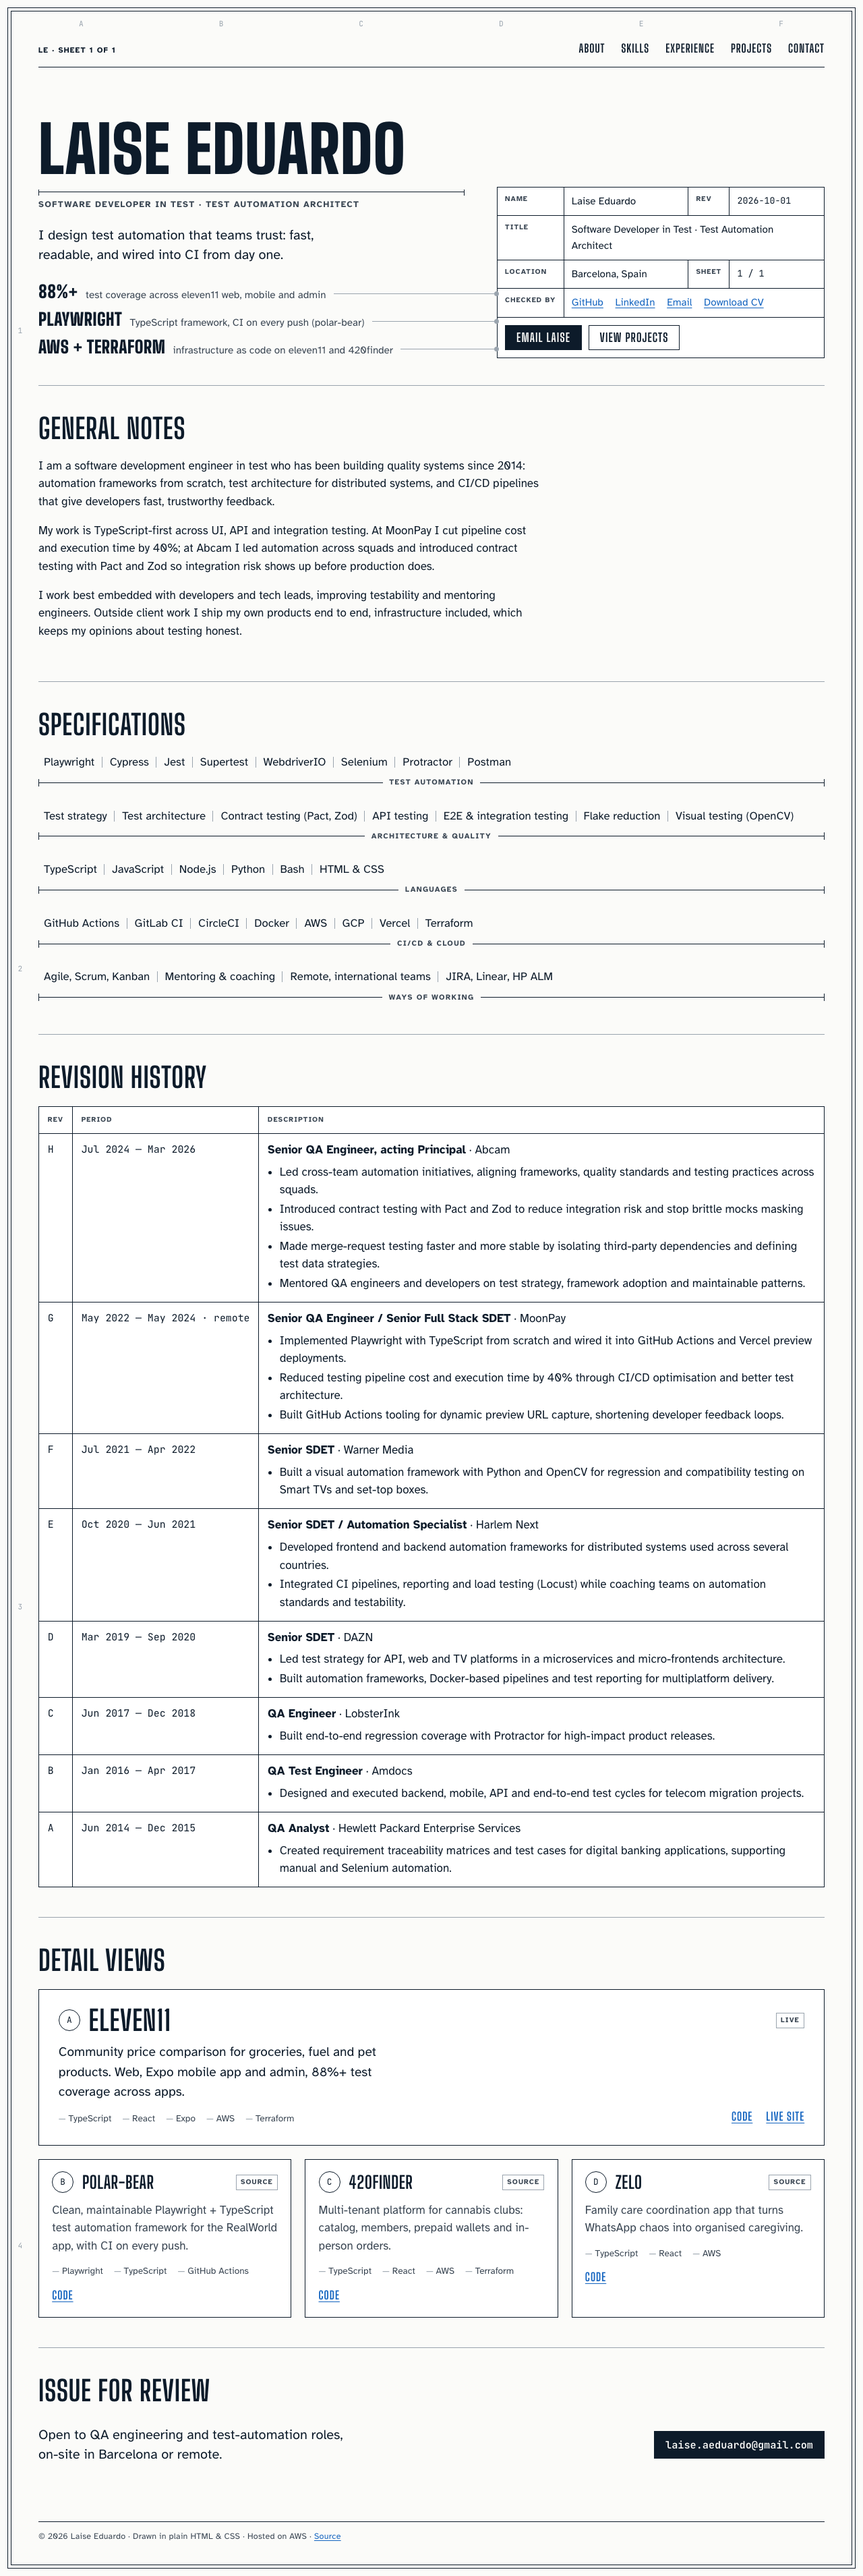
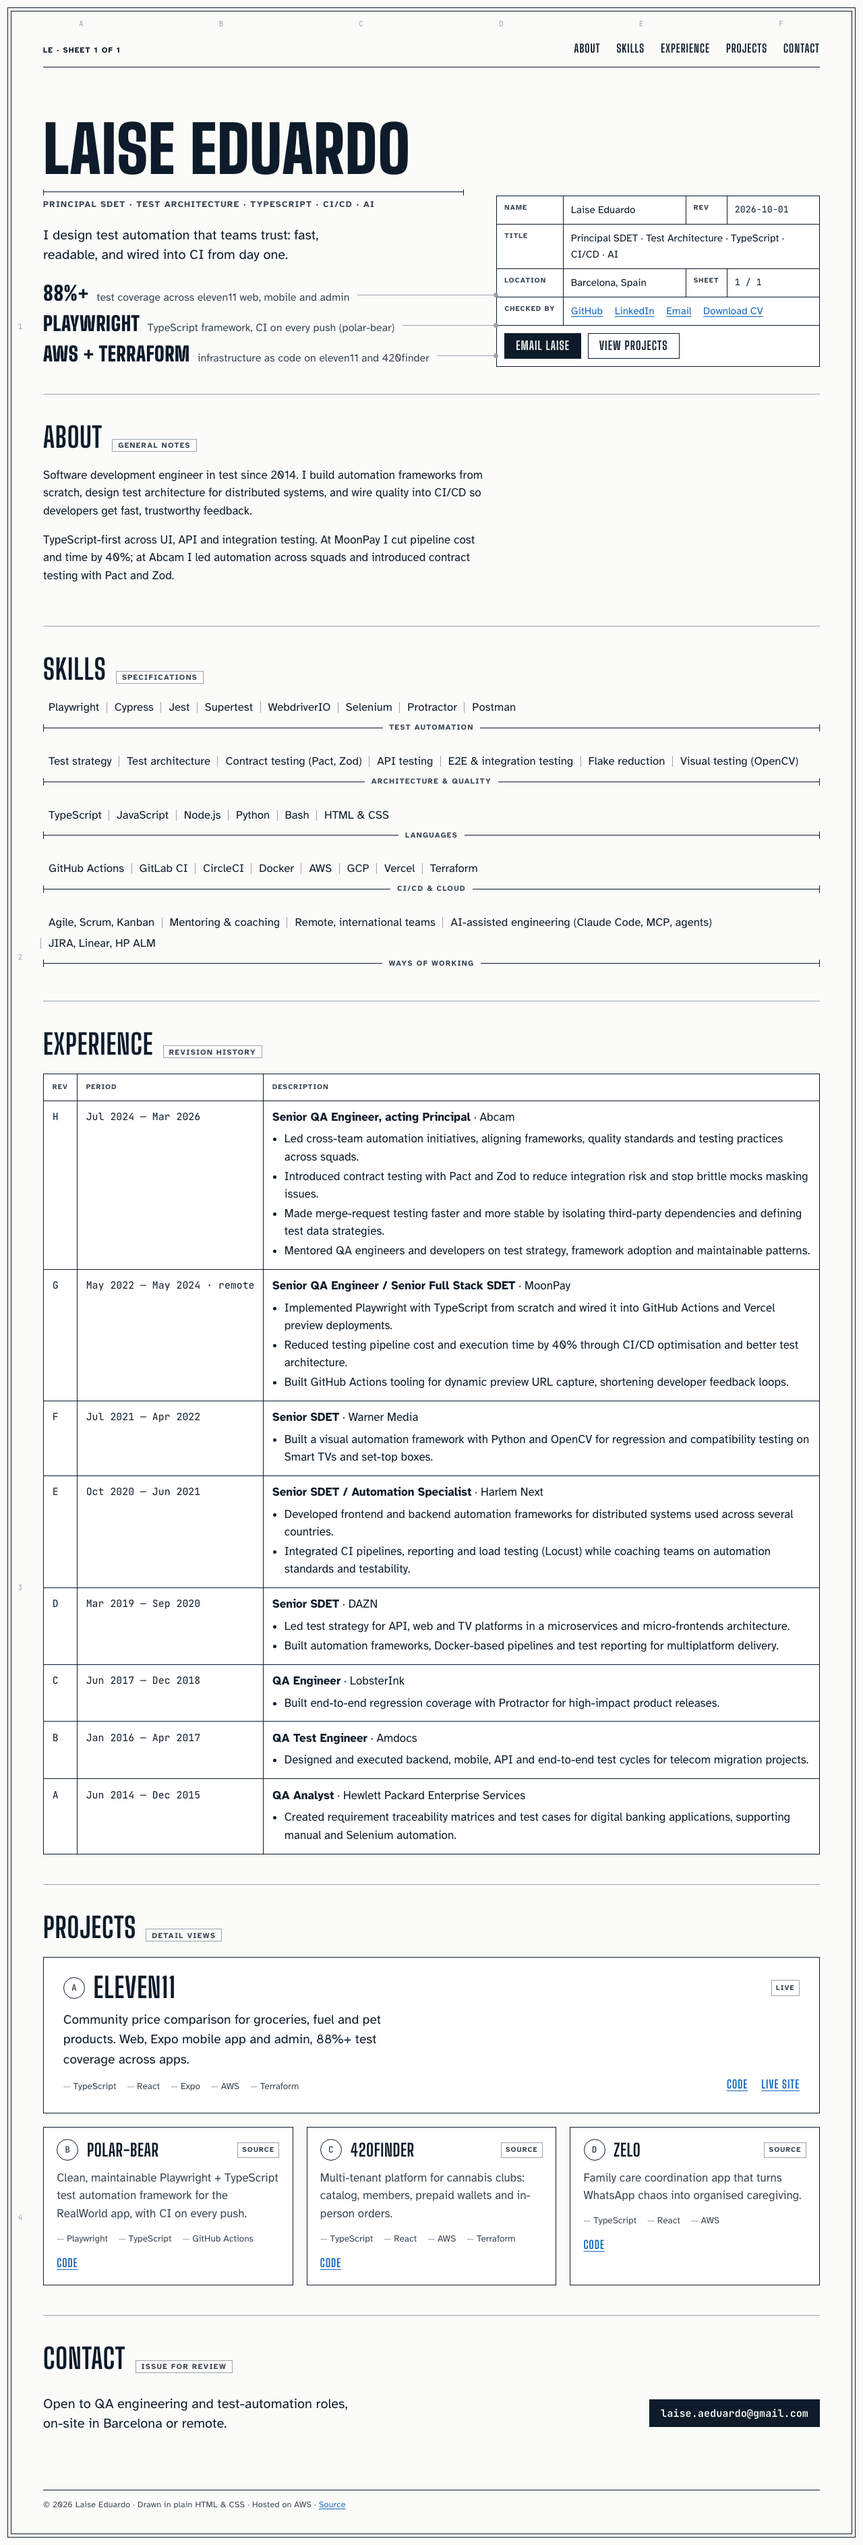
design: cap drawing width on wide screens, plain section headings with drawing notes, shorter about

diff --git a/site/main.js b/site/main.js
@@ -50,13 +50,13 @@ const hero = () => html`
 
 const about = () => html`
 <section id="about" aria-labelledby="h-about">
-  <h2 id="h-about">General notes</h2>
+  <h2 id="h-about">About <span class="note">General notes</span></h2>
   <div class="prose">${list(content.about, p => html`<p>${esc(p)}</p>`)}</div>
 </section>`;
 
 const skills = () => html`
 <section id="skills" aria-labelledby="h-skills">
-  <h2 id="h-skills">Specifications</h2>
+  <h2 id="h-skills">Skills <span class="note">Specifications</span></h2>
   <dl class="dims">
     ${list(content.skills, g => html`
     <div class="dim-row">
@@ -68,7 +68,7 @@ const skills = () => html`
 
 const experience = () => html`
 <section id="experience" aria-labelledby="h-exp">
-  <h2 id="h-exp">Revision history</h2>
+  <h2 id="h-exp">Experience <span class="note">Revision history</span></h2>
   <table class="rev">
     <thead><tr><th scope="col">Rev</th><th scope="col">Period</th><th scope="col">Description</th></tr></thead>
     <tbody>
@@ -87,7 +87,7 @@ const experience = () => html`
 
 const projects = () => html`
 <section id="projects" aria-labelledby="h-projects">
-  <h2 id="h-projects">Detail views</h2>
+  <h2 id="h-projects">Projects <span class="note">Detail views</span></h2>
   <div class="details">
     ${list(content.projects, (p, i) => html`
     <article class="detail${i === 0 ? ' headline' : ''}" aria-labelledby="p-${i}">
@@ -108,7 +108,7 @@ const projects = () => html`
 
 const contact = () => html`
 <section id="contact" aria-labelledby="h-contact">
-  <h2 id="h-contact">Issue for review</h2>
+  <h2 id="h-contact">Contact <span class="note">Issue for review</span></h2>
   <div class="contact-row">
     <p class="pitch">Open to QA engineering and test-automation roles, on-site in Barcelona or remote.</p>
     <p><a class="btn primary" href="mailto:${esc(content.email)}">${esc(content.email)}</a></p>

diff --git a/site/styles.css b/site/styles.css
@@ -89,6 +89,8 @@ h1, h2, h3 {
   padding: 1.75rem var(--gutter) var(--gutter);
   min-height: calc(100vh - 2 * var(--gutter));
 }
+/* the frame fills the window; the drawing itself is capped so leaders and measures stay short */
+.sheet > .top, .sheet > main, .sheet > footer { max-width: 72rem; margin-inline: auto; width: 100%; }
 
 .zones {
   position: absolute;
@@ -170,8 +172,8 @@ h1, h2, h3 {
   display: flex; flex-wrap: wrap; align-items: baseline; gap: 0.35rem 0.7rem;
   color: var(--ink); text-decoration: none;
 }
-.callouts strong { font-family: var(--display); font-size: 1.6rem; font-weight: 900; letter-spacing: 0.02em; text-transform: uppercase; line-height: 1; }
-.callouts span { color: var(--ink-2); font-size: 0.95rem; }
+.callouts strong { font-family: var(--display); font-size: 1.85rem; font-weight: 900; letter-spacing: 0.02em; text-transform: uppercase; line-height: 1; }
+.callouts span { color: var(--ink-2); font-size: 1rem; }
 .callouts a:hover span, .callouts a:focus-visible span { color: var(--ink); }
 
 /* leader: a rule that runs from the claim to the title block, dot at the target end */
@@ -231,9 +233,10 @@ h1, h2, h3 {
 main > section { padding: 2.75rem 0; border-bottom: 1px solid var(--rule); }
 main > section:last-child { border-bottom: 0; }
 
-h2 { font-size: clamp(1.9rem, 4vw, 2.6rem); font-weight: 700; margin-bottom: 1.4rem; }
+h2 { font-size: clamp(1.9rem, 4vw, 2.6rem); font-weight: 700; margin-bottom: 1.4rem; display: flex; align-items: baseline; gap: 0.9rem; flex-wrap: wrap; }
+h2 .note { font-family: var(--body); font-size: 0.7rem; font-weight: 700; letter-spacing: 0.12em; color: var(--ink-2); border: 1px solid var(--rule); padding: 0.2rem 0.5rem; }
 
-.prose { max-width: 68ch; }
+.prose { max-width: 60ch; }
 .prose p { margin: 0 0 1em; }
 
 /* specifications: each group is a dimension line — items are the dimensioned span,

diff --git a/site/content.js b/site/content.js
@@ -16,9 +16,8 @@ const content = {
     { value: 'AWS + Terraform', label: 'infrastructure as code on eleven11 and 420finder', href: 'https://github.com/LaiseEduardo/eleven11/tree/main/terraform' },
   ],
   about: [
-    'I am a software development engineer in test who has been building quality systems since 2014: automation frameworks from scratch, test architecture for distributed systems, and CI/CD pipelines that give developers fast, trustworthy feedback.',
-    'My work is TypeScript-first across UI, API and integration testing. At MoonPay I cut pipeline cost and execution time by 40%; at Abcam I led automation across squads and introduced contract testing with Pact and Zod so integration risk shows up before production does.',
-    'I work best embedded with developers and tech leads, improving testability and mentoring engineers. Outside client work I ship my own products end to end, infrastructure included, which keeps my opinions about testing honest.',
+    'Software development engineer in test since 2014. I build automation frameworks from scratch, design test architecture for distributed systems, and wire quality into CI/CD so developers get fast, trustworthy feedback.',
+    'TypeScript-first across UI, API and integration testing. At MoonPay I cut pipeline cost and time by 40%; at Abcam I led automation across squads and introduced contract testing with Pact and Zod.',
   ],
   skills: [
     { group: 'Test automation', items: ['Playwright', 'Cypress', 'Jest', 'Supertest', 'WebdriverIO', 'Selenium', 'Protractor', 'Postman'] },

diff --git a/tests/smoke.spec.js b/tests/smoke.spec.js
@@ -74,3 +74,23 @@ test('CV button renders exactly once when content.cv is set', async ({ page }) =
   const status = await page.evaluate(async () => (await fetch('/cv.pdf', { method: 'HEAD' })).status);
   expect(status).toBe(200);
 });
+
+test('section headings match the nav labels', async ({ page }) => {
+  await page.goto('/');
+  const heads = await page.locator('main h2').evaluateAll(hs => hs.map(h => h.firstChild.textContent.trim()));
+  expect(heads).toEqual(['About', 'Skills', 'Experience', 'Projects', 'Contact']);
+});
+
+test('about stays short: at most two paragraphs under 260 characters each', async ({ page }) => {
+  await page.goto('/');
+  const lens = await page.locator('#about .prose p').evaluateAll(ps => ps.map(p => p.textContent.length));
+  expect(lens.length).toBeLessThanOrEqual(2);
+  for (const l of lens) expect(l).toBeLessThan(260);
+});
+
+test('content width is capped on very wide screens', async ({ page }) => {
+  await page.setViewportSize({ width: 2000, height: 1000 });
+  await page.goto('/');
+  const w = await page.locator('#hero').evaluate(el => el.getBoundingClientRect().width);
+  expect(w).toBeLessThanOrEqual(1200);
+});
